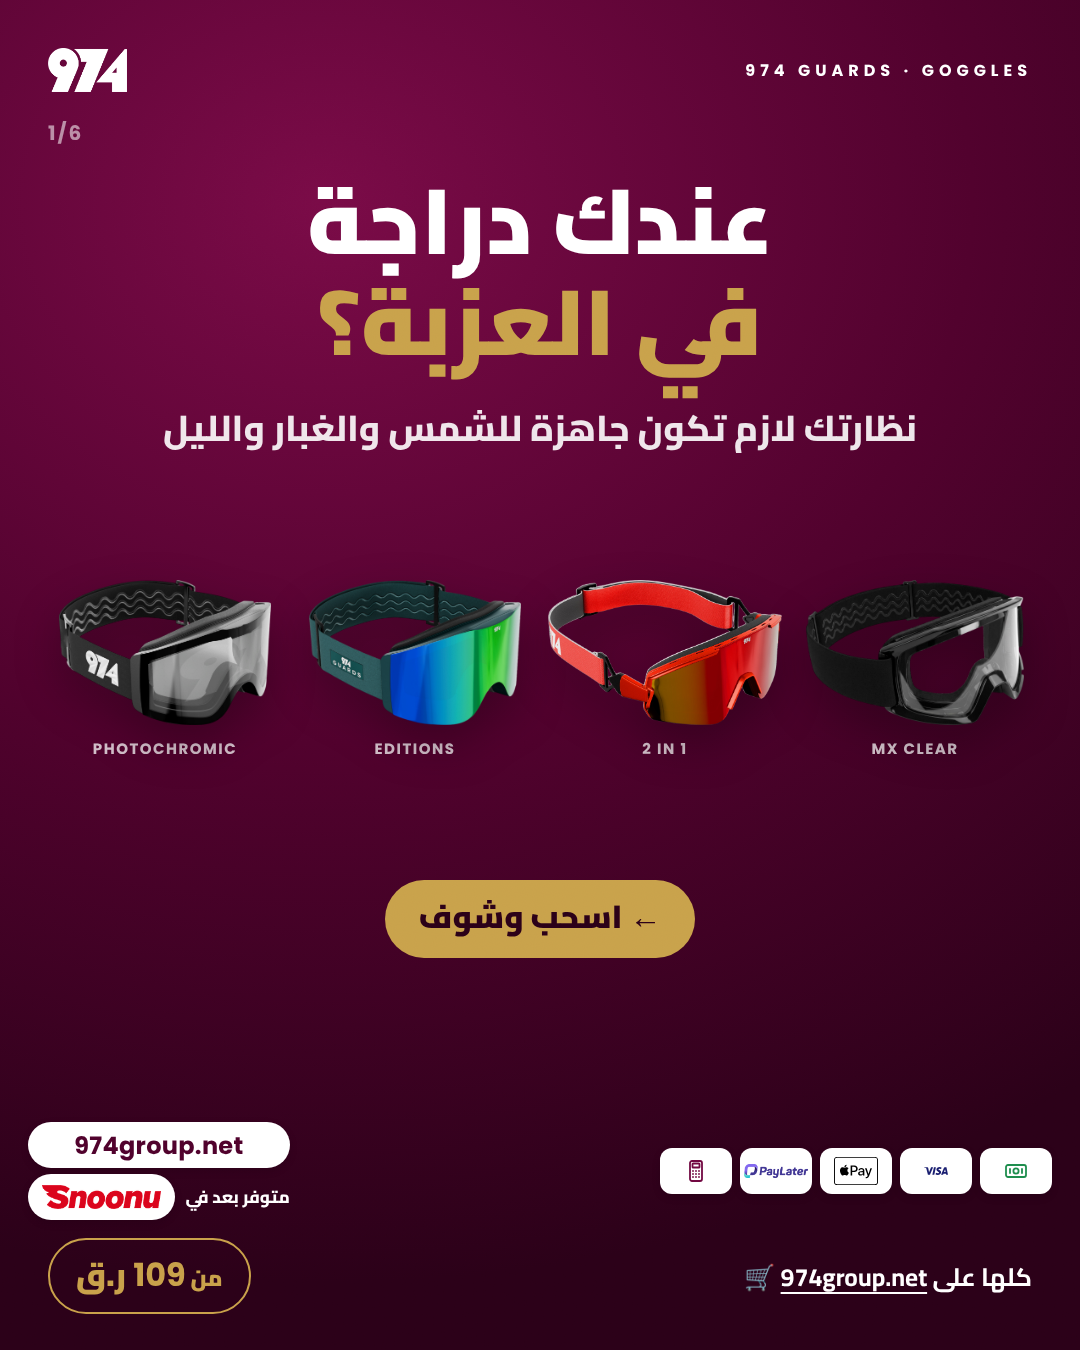
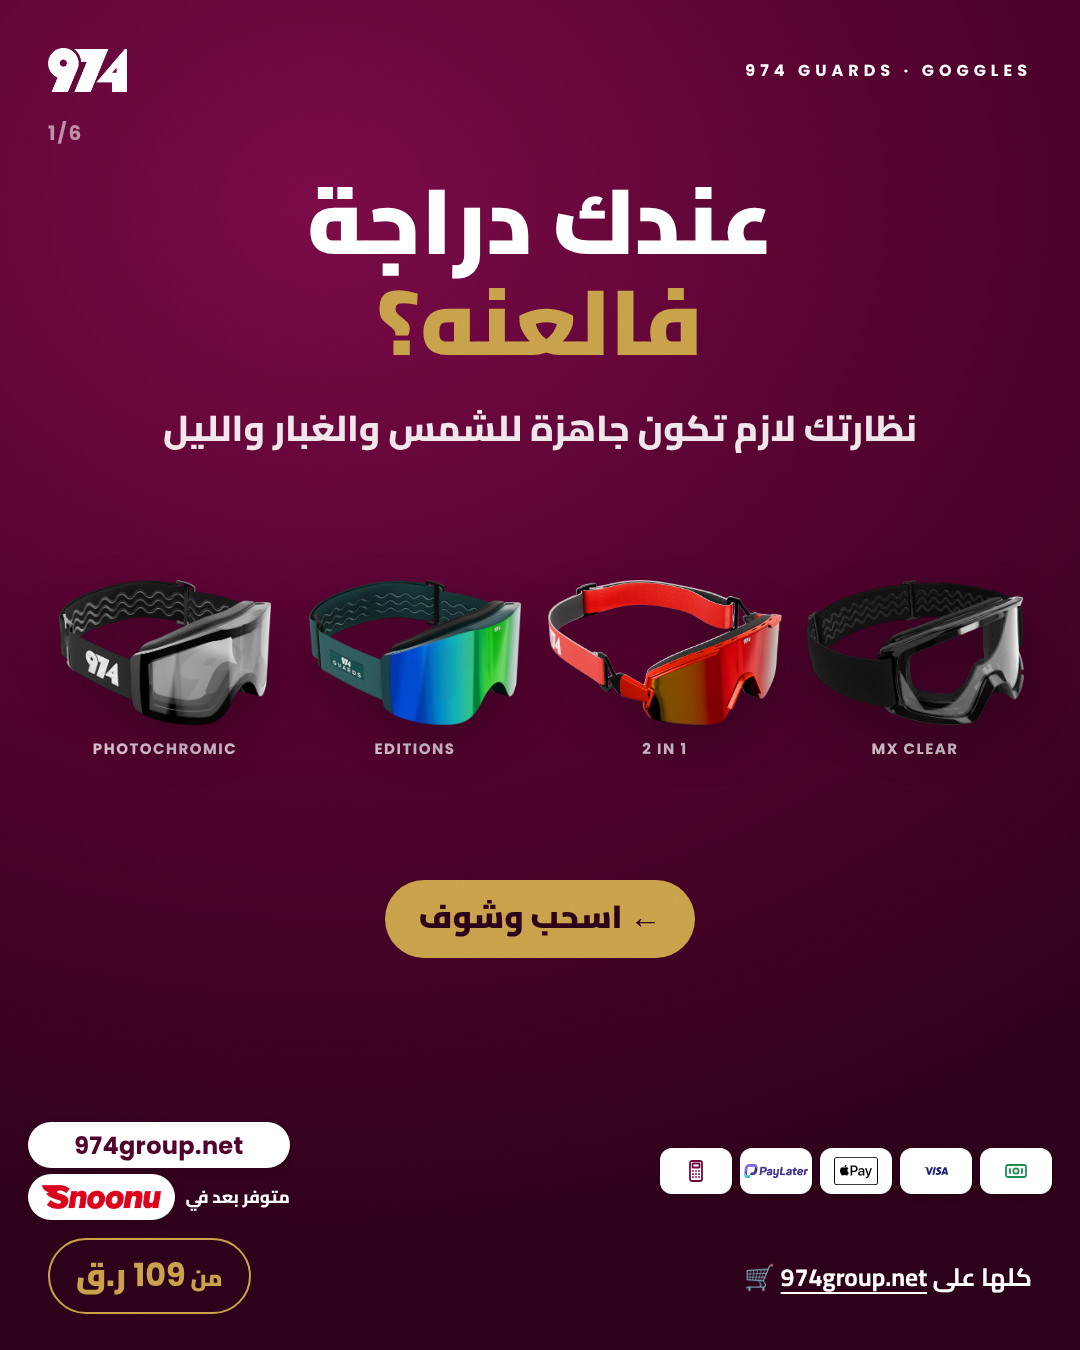
Goggles hook: فالعنه
Claude-Session: https://claude.ai/code/session_01K6HDWNrArsGSJekW1VcEzV

Changed region(s): [[0.275, 0.2178, 0.7028, 0.3111]]

diff --git a/posts/2026-11/goggles-guide/out/01-hook.html b/posts/2026-11/goggles-guide/out/01-hook.html
@@ -40,7 +40,7 @@ body{width:1080px;height:1350px;background:radial-gradient(120% 80% at 30% 15%,#
 .pill{border-color:#C9A24B!important;color:#C9A24B} .pill::before{content:"من ";font-size:.7em}</style></head><body>
 <div class="abs en cnt" style="color:#fff">1/6</div>
 <div class="abs ar" style="right:48px;left:48px;top:170px;text-align:center">
- <div style="font-weight:900;font-size:92px;line-height:1.1">عندك دراجة<br><span style="color:#C9A24B">في العزبة؟</span></div>
+ <div style="font-weight:900;font-size:92px;line-height:1.1">عندك دراجة<br><span style="color:#C9A24B">فالعنه؟</span></div>
  <div style="font-weight:800;font-size:36px;margin-top:22px;opacity:.9">نظارتك لازم تكون جاهزة للشمس والغبار والليل</div>
 </div>
 <div class="b" style="left:40px;top:580px;width:250px"><div style="height:145px;width:236px;display:flex;align-items:flex-end;justify-content:center"><img src="file:///tmp/guide-trim/99ce4071d669a6c00a56a8aae7e99b57.png" style="max-height:145px;max-width:236px"></div><i style="color:rgba(255,255,255,.75)">Photochromic</i></div><div class="b" style="left:290px;top:580px;width:250px"><div style="height:145px;width:236px;display:flex;align-items:flex-end;justify-content:center"><img src="file:///tmp/guide-trim/82bb83401434336fa0d1048e9f1d1331.png" style="max-height:145px;max-width:236px"></div><i style="color:rgba(255,255,255,.75)">Editions</i></div><div class="b" style="left:540px;top:580px;width:250px"><div style="height:145px;width:236px;display:flex;align-items:flex-end;justify-content:center"><img src="file:///tmp/guide-trim/01bcedaeffe54a032a3fd5e6d71d4788.png" style="max-height:145px;max-width:236px"></div><i style="color:rgba(255,255,255,.75)">2 in 1</i></div><div class="b" style="left:790px;top:580px;width:250px"><div style="height:145px;width:236px;display:flex;align-items:flex-end;justify-content:center"><img src="file:///tmp/guide-trim/fe485c4a86aa3fa159b22356ea92d4bd.png" style="max-height:145px;max-width:236px"></div><i style="color:rgba(255,255,255,.75)">MX Clear</i></div>

diff --git a/posts/2026-11/goggles-guide/gen.py b/posts/2026-11/goggles-guide/gen.py
@@ -27,7 +27,7 @@ S = {
 ORDER = ['photo', 'editions', 'twoin1', 'mx']; N = len(ORDER) + 2
 if __name__ == '__main__':
     picks = [(C+'photochromic.png','Photochromic'),(G+'green-edition-render.png','Editions'),(SG+'red.png','2 in 1'),(C+'mx-black.png','MX Clear')]
-    sl = [('01-hook', lambda: hook(N, 'عندك دراجة<br><span style="color:#C9A24B">في العزبة؟</span>', 'نظارتك لازم تكون جاهزة للشمس والغبار والليل', picks, TAG, 109))]
+    sl = [('01-hook', lambda: hook(N, 'عندك دراجة<br><span style="color:#C9A24B">فالعنه؟</span>', 'نظارتك لازم تكون جاهزة للشمس والغبار والليل', picks, TAG, 109))]
     sl += [(f'{i+2:02d}-{k}', (lambda k=k, i=i: slide(S[k], i+2, N, TAG))) for i, k in enumerate(ORDER)]
     sl += [(f'{N:02d}-cta', lambda: cta(N, [(S[k]['ar'], S[k]['head']) for k in ORDER], TAG, 109, 'وعندنا ستراب إضافي بـ 99 ر.ق لنظارات 974 Guards', what='نظارة'))]
     build(sl, D)
